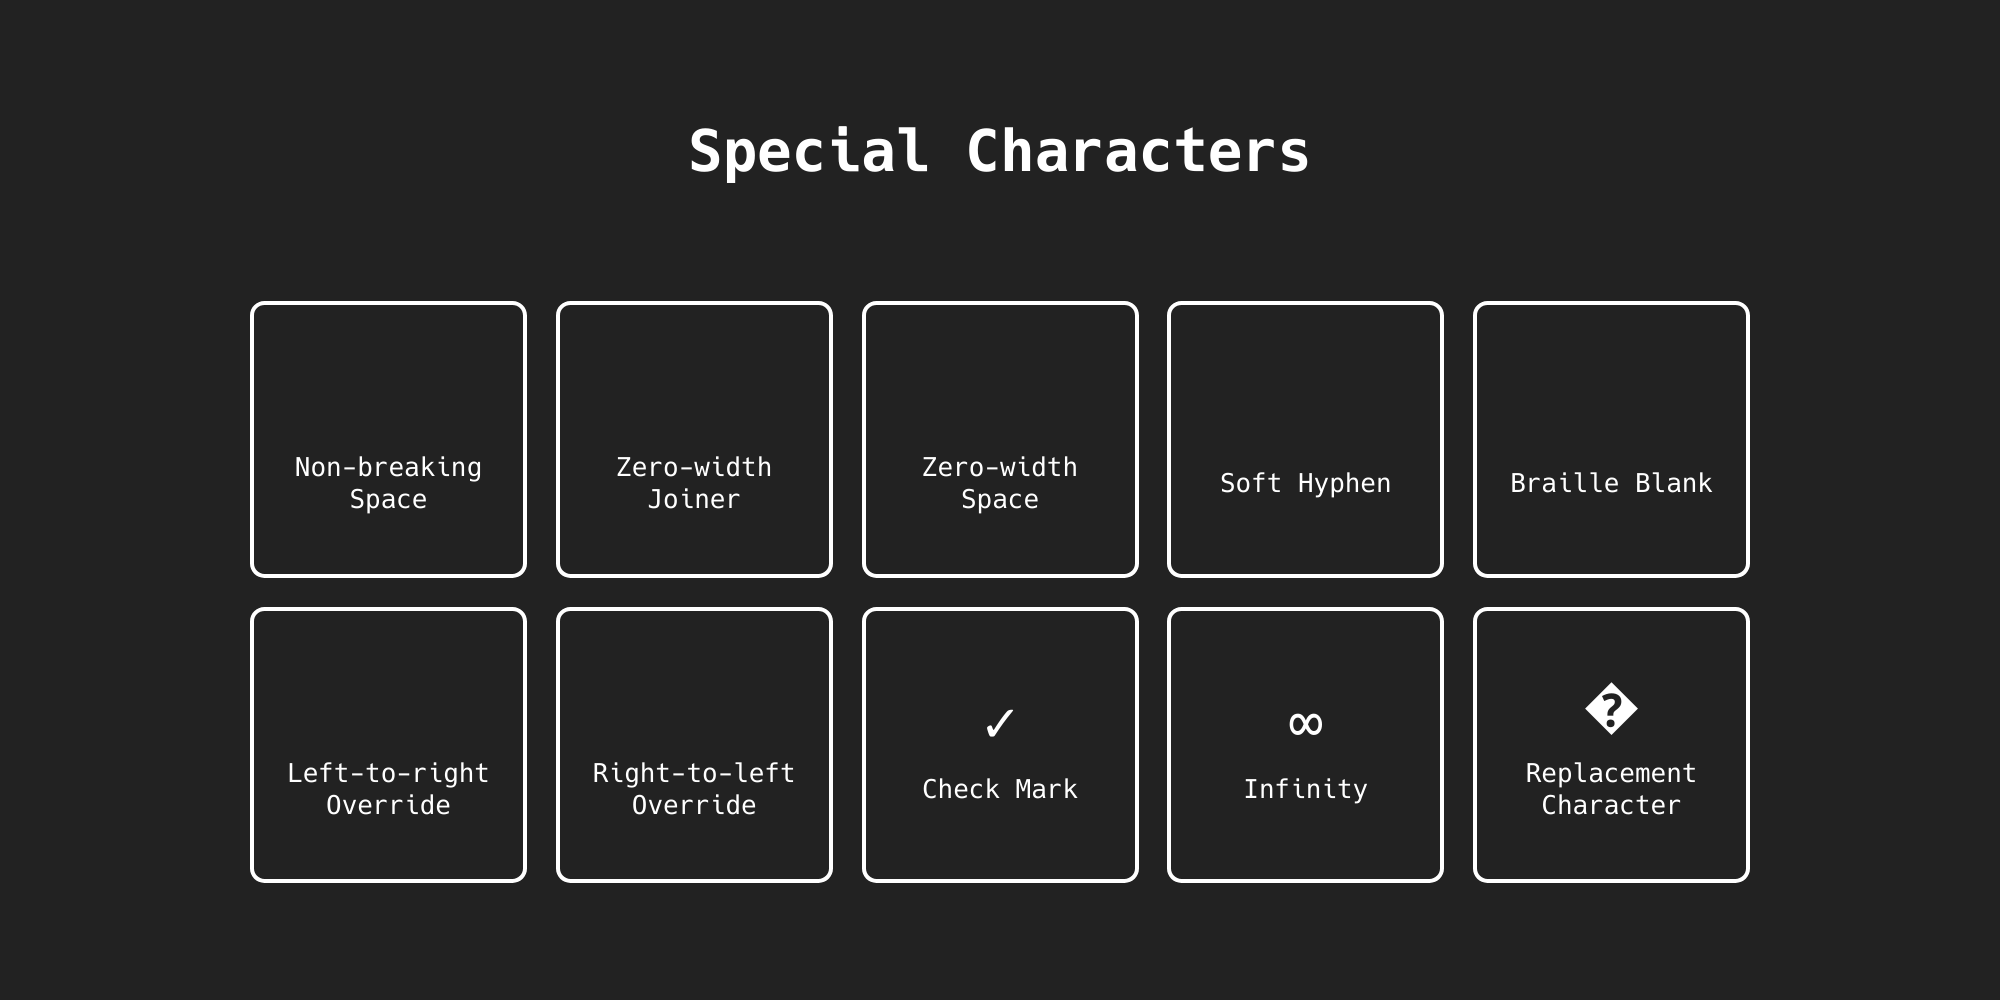
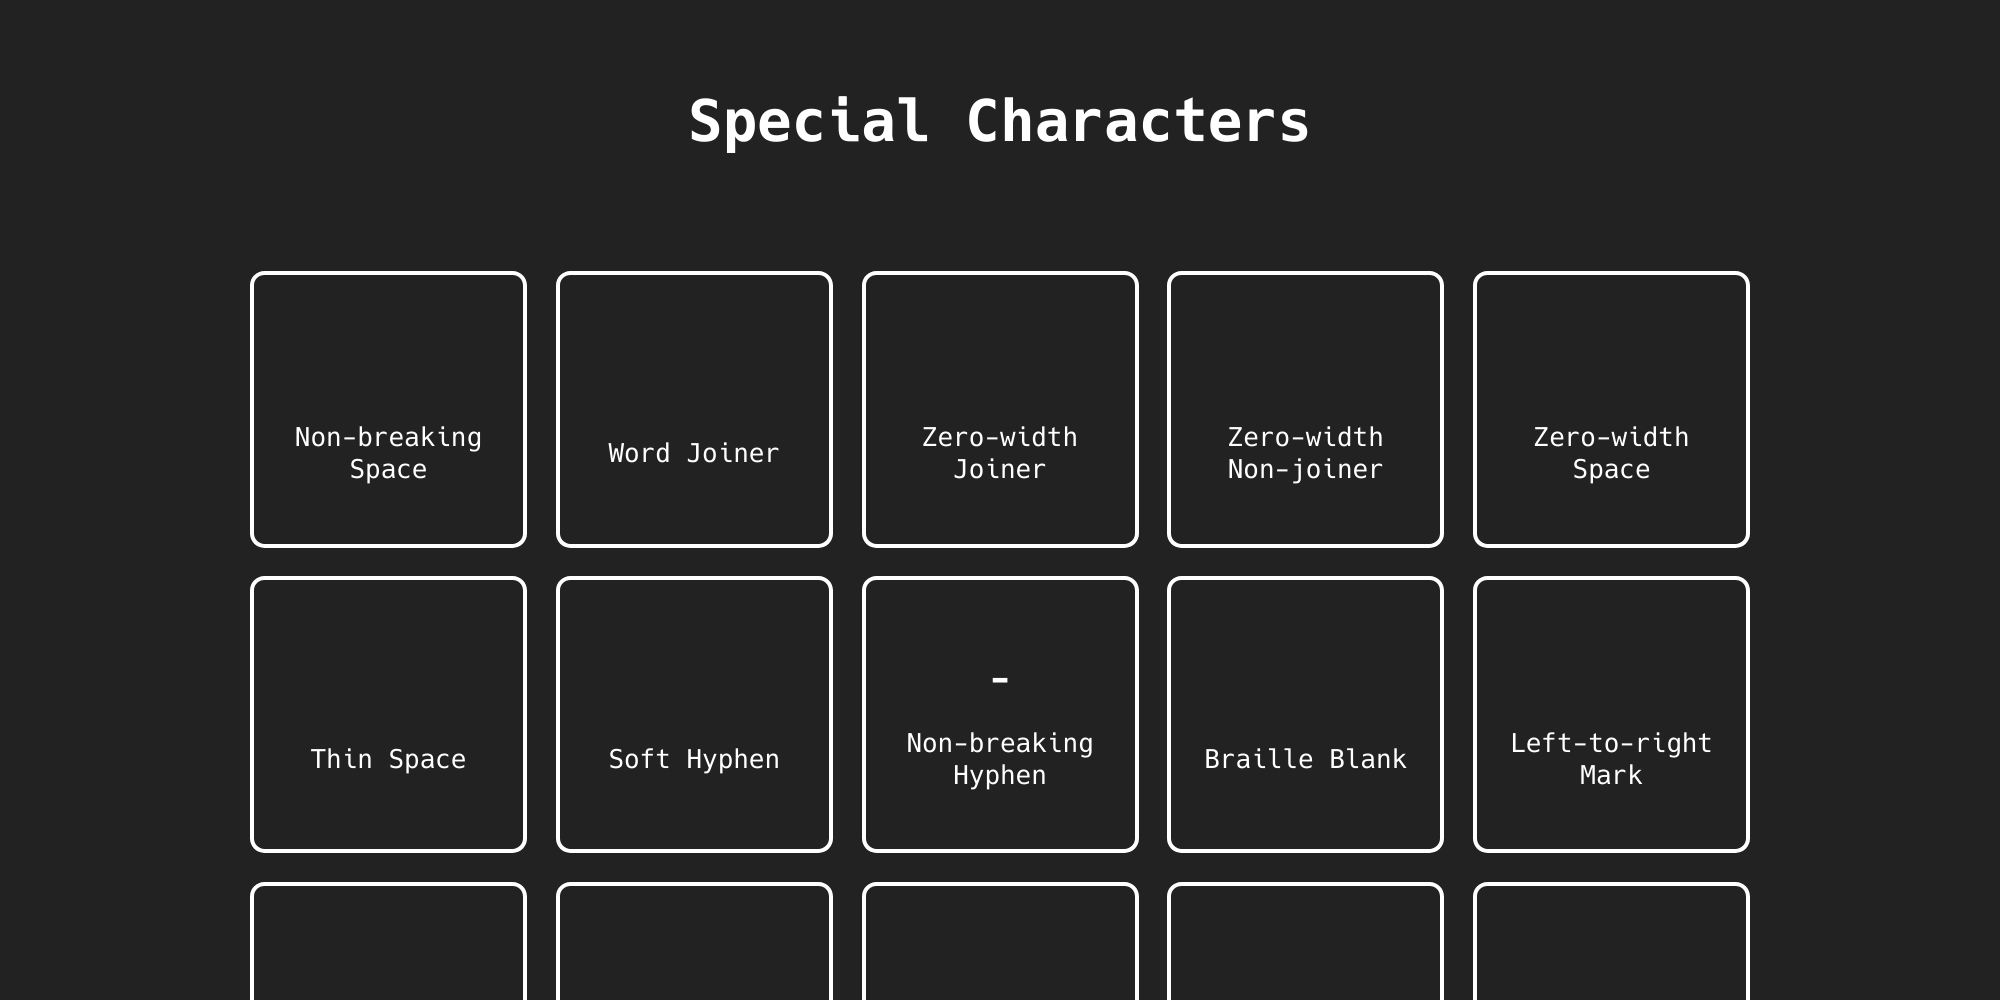
Update specchars
- Update screenshot
- Fix bug

diff --git a/specchars.html b/specchars.html
@@ -91,126 +91,36 @@
         <h1>Special Characters</h1>
 
         <section id="chars">
-            <label>
-                <input type="text" readonly value="&nbsp;">
-                <span>Non-breaking Space</span>
-            </label>
-            <label>
-                <input type="text" readonly value="&NoBreak;">
-                <span>Word Joiner</span>
-            </label>
-            <label>
-                <input type="text" readonly value="&zwj;">
-                <span>Zero-width Joiner</span>
-            </label>
-            <label>
-                <input type="text" readonly value="&zwnj;">
-                <span>Zero-width Non-joiner</span>
-            </label>
-            <label>
-                <input type="text" readonly value="&ZeroWidthSpace;">
-                <span>Zero-width Space</span>
-            </label>
-            <label>
-                <input type="text" readonly value="&thinsp;">
-                <span>Thin Space</span>
-            </label>
-            <label>
-                <input type="text" readonly value="&shy;">
-                <span>Soft Hyphen</span>
-            </label>
-            <label>
-                <input type="text" readonly value="&#x2011;">
-                <span>Non-breaking Hyphen</span>
-            </label>
-            <label>
-                <input type="text" readonly value="&#x2800;">
-                <span>Braille Blank</span>
-            </label>
-            <label>
-                <input type="text" readonly value="&lrm;">
-                <span>Left-to-right Mark</span>
-            </label>
-            <label>
-                <input type="text" readonly value="&rlm;">
-                <span>Right-to-left Mark</span>
-            </label>
-            <label>
-                <input type="text" readonly value="&#x202D;">
-                <span>Left-to-right Override</span>
-            </label>
-            <label>
-                <input type="text" readonly value="&#x202E;">
-                <span>Right-to-left Override</span>
-            </label>
-            <label>
-                <input type="text" readonly value="&#x202C;">
-                <span>Pop Directional Formatting</span>
-            </label>
-            <label>
-                <input type="text" readonly value="&#xFEFF;">
-                <span>Byte Order Mark</span>
-            </label>
-            <label>
-                <input type="text" readonly value="&#x0007;">
-                <span>Bell</span>
-            </label>
-            <label>
-                <input type="text" readonly value="&#x037E;">
-                <span>Greek Question Mark</span>
-            </label>
-            <label>
-                <input type="text" readonly value="&#x2A75;">
-                <span>Double Equals</span>
-            </label>
-            <label>
-                <input type="text" readonly value="&#x2A76;">
-                <span>Triple Equals</span>
-            </label>
-            <label>
-                <input type="text" readonly value="&mldr;">
-                <span>Ellipsis</span>
-            </label>
-            <label>
-                <input type="text" readonly value="✓">
-                <span>Check Mark</span>
-            </label>
-            <label>
-                <input type="text" readonly value="∞">
-                <span>Infinity</span>
-            </label>
-            <label>
-                <input type="text" readonly value="&#x2318;">
-                <span>Place of Interest (Mac Command)</span>
-            </label>
-            <label>
-                <input type="text" readonly value="&#x2325;">
-                <span>Option Key</span>
-            </label>
-            <label>
-                <input type="text" readonly value="&equiv;">
-                <span>Triple Bar (Hamburger Menu Icon)</span>
-            </label>
-            <label>
-                <input type="text" readonly value="&#x271E;">
-                <span>Outlined Cross</span>
-            </label>
-            <label>
-                <input type="text" readonly value="&#x1F0A1;">
-                <span>Ace of Spades</span>
-            </label>
-            <label>
-                <input type="text" readonly value="&#x1F39A;">
-                <span>Level Slider</span>
-            </label>
-            <label>
-                <input type="text" readonly value="&#x1F39B;">
-                <span>Control Knobs</span>
-            </label>
-            <label>
-                <input type="text" readonly value="&#xFFFD;">
-                <span>Replace&shy;ment Character</span>
-            </label>
+            <label><input type="text" readonly value="&nbsp;"><span>Non-breaking Space</span></label>
+            <label><input type="text" readonly value="&NoBreak;"><span>Word Joiner</span></label>
+            <label><input type="text" readonly value="&zwj;"><span>Zero-width Joiner</span></label>
+            <label><input type="text" readonly value="&zwnj;"><span>Zero-width Non-joiner</span></label>
+            <label><input type="text" readonly value="&ZeroWidthSpace;"><span>Zero-width Space</span></label>
+            <label><input type="text" readonly value="&thinsp;"><span>Thin Space</span></label>
+            <label><input type="text" readonly value="&shy;"><span>Soft Hyphen</span></label>
+            <label><input type="text" readonly value="&#x2011;"><span>Non-breaking Hyphen</span></label>
+            <label><input type="text" readonly value="&#x2800;"><span>Braille Blank</span></label>
+            <label><input type="text" readonly value="&lrm;"><span>Left-to-right Mark</span></label>
+            <label><input type="text" readonly value="&rlm;"><span>Right-to-left Mark</span></label>
+            <label><input type="text" readonly value="&#x202D;"><span>Left-to-right Override</span></label>
+            <label><input type="text" readonly value="&#x202E;"><span>Right-to-left Override</span></label>
+            <label><input type="text" readonly value="&#x202C;"><span>Pop Directional Formatting</span></label>
+            <label><input type="text" readonly value="&#xFEFF;"><span>Byte Order Mark</span></label>
+            <label><input type="text" readonly value="&#x0007;"><span>Bell</span></label>
+            <label><input type="text" readonly value="&#x037E;"><span>Greek Question Mark</span></label>
+            <label><input type="text" readonly value="&#x2A75;"><span>Double Equals</span></label>
+            <label><input type="text" readonly value="&#x2A76;"><span>Triple Equals</span></label>
+            <label><input type="text" readonly value="&mldr;"><span>Ellipsis</span></label>
+            <label><input type="text" readonly value="&check;"><span>Check Mark</span></label>
+            <label><input type="text" readonly value="&infin;"><span>Infinity</span></label>
+            <label><input type="text" readonly value="&#x2318;"><span>Place of Interest (Mac Command)</span></label>
+            <label><input type="text" readonly value="&#x2325;"><span>Option Key</span></label>
+            <label><input type="text" readonly value="&equiv;"><span>Triple Bar (Hamburger Menu Icon)</span></label>
+            <label><input type="text" readonly value="&#x271E;"><span>Outlined Cross</span></label>
+            <label><input type="text" readonly value="&#x1F0A1;"><span>Ace of Spades</span></label>
+            <label><input type="text" readonly value="&#x1F39A;"><span>Level Slider</span></label>
+            <label><input type="text" readonly value="&#x1F39B;"><span>Control Knobs</span></label>
+            <label><input type="text" readonly value="&#xFFFD;"><span>Replace&shy;ment Character</span></label>
         </section>
 
         <div id="toast"></div>
@@ -220,7 +130,7 @@
         function q(elem, parent=document) { return parent.querySelector(elem); }
         function qs(elems, parent=document) { return parent.querySelectorAll(elems); }
 
-        const toast = q('toast');
+        const toast = q('#toast');
 
         function showToast(message) {
             toast.textContent = message;
